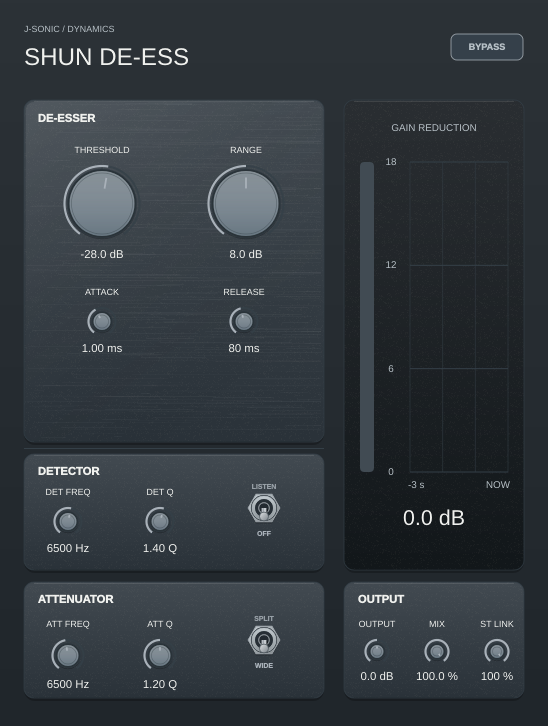
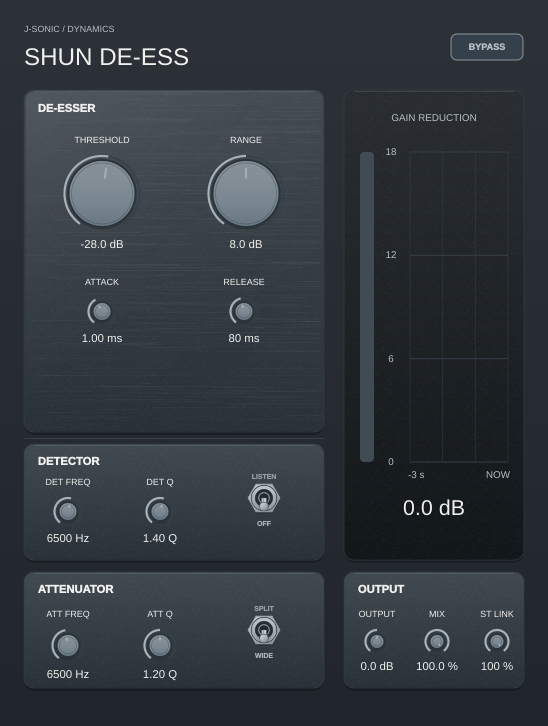
Increase SHUN layout upward shift to 20px

diff --git a/projects/ShunDeEss/Source/PluginEditor.cpp b/projects/ShunDeEss/Source/PluginEditor.cpp
@@ -437,7 +437,7 @@ void ShunDeEssEditor::paint (juce::Graphics& g)
     g.setFont (juce::FontOptions (27.0f));
     g.drawText ("SHUN DE-ESS", 24, 38, 410, 38, juce::Justification::centredLeft);
     g.saveState();
-    g.addTransform (juce::AffineTransform::translation (0.0f, -40.0f));
+    g.addTransform (juce::AffineTransform::translation (0.0f, -50.0f));
     drawBrushedMetalPanel (g, { 24, 140, 300, 342 }, 10, theme.card, theme.grid);
     drawAnalogPanel (g, { 24, 494, 300, 116 }, 10, theme.card, theme.grid);
     drawAnalogPanel (g, { 24, 622, 300, 116 }, 10, theme.card, theme.grid);
@@ -528,7 +528,7 @@ void ShunDeEssEditor::paintMeter (juce::Graphics& g)
 
 void ShunDeEssEditor::resized()
 {
-    const auto up = [] (int y) { return y - 70; };
+    const auto up = [] (int y) { return y - 80; };
     bypass.setBounds (450, 33, 74, 28);
     const auto place = [this, &up] (size_t index, int x, int y, int width, int height)
     {

diff --git a/projects/ShunDeEss/DEVELOPMENT_LOG.md b/projects/ShunDeEss/DEVELOPMENT_LOG.md
@@ -32,5 +32,5 @@
   fits without clipping.
 
 ### 2026-10-20 — title and frame spacing refinement
-- Shifted the interface panels, meter, and controls up another 10 px to tighten
+- Shifted the interface panels, meter, and controls up another 20 px to tighten
   the title gap and increase the lower frame margin.
